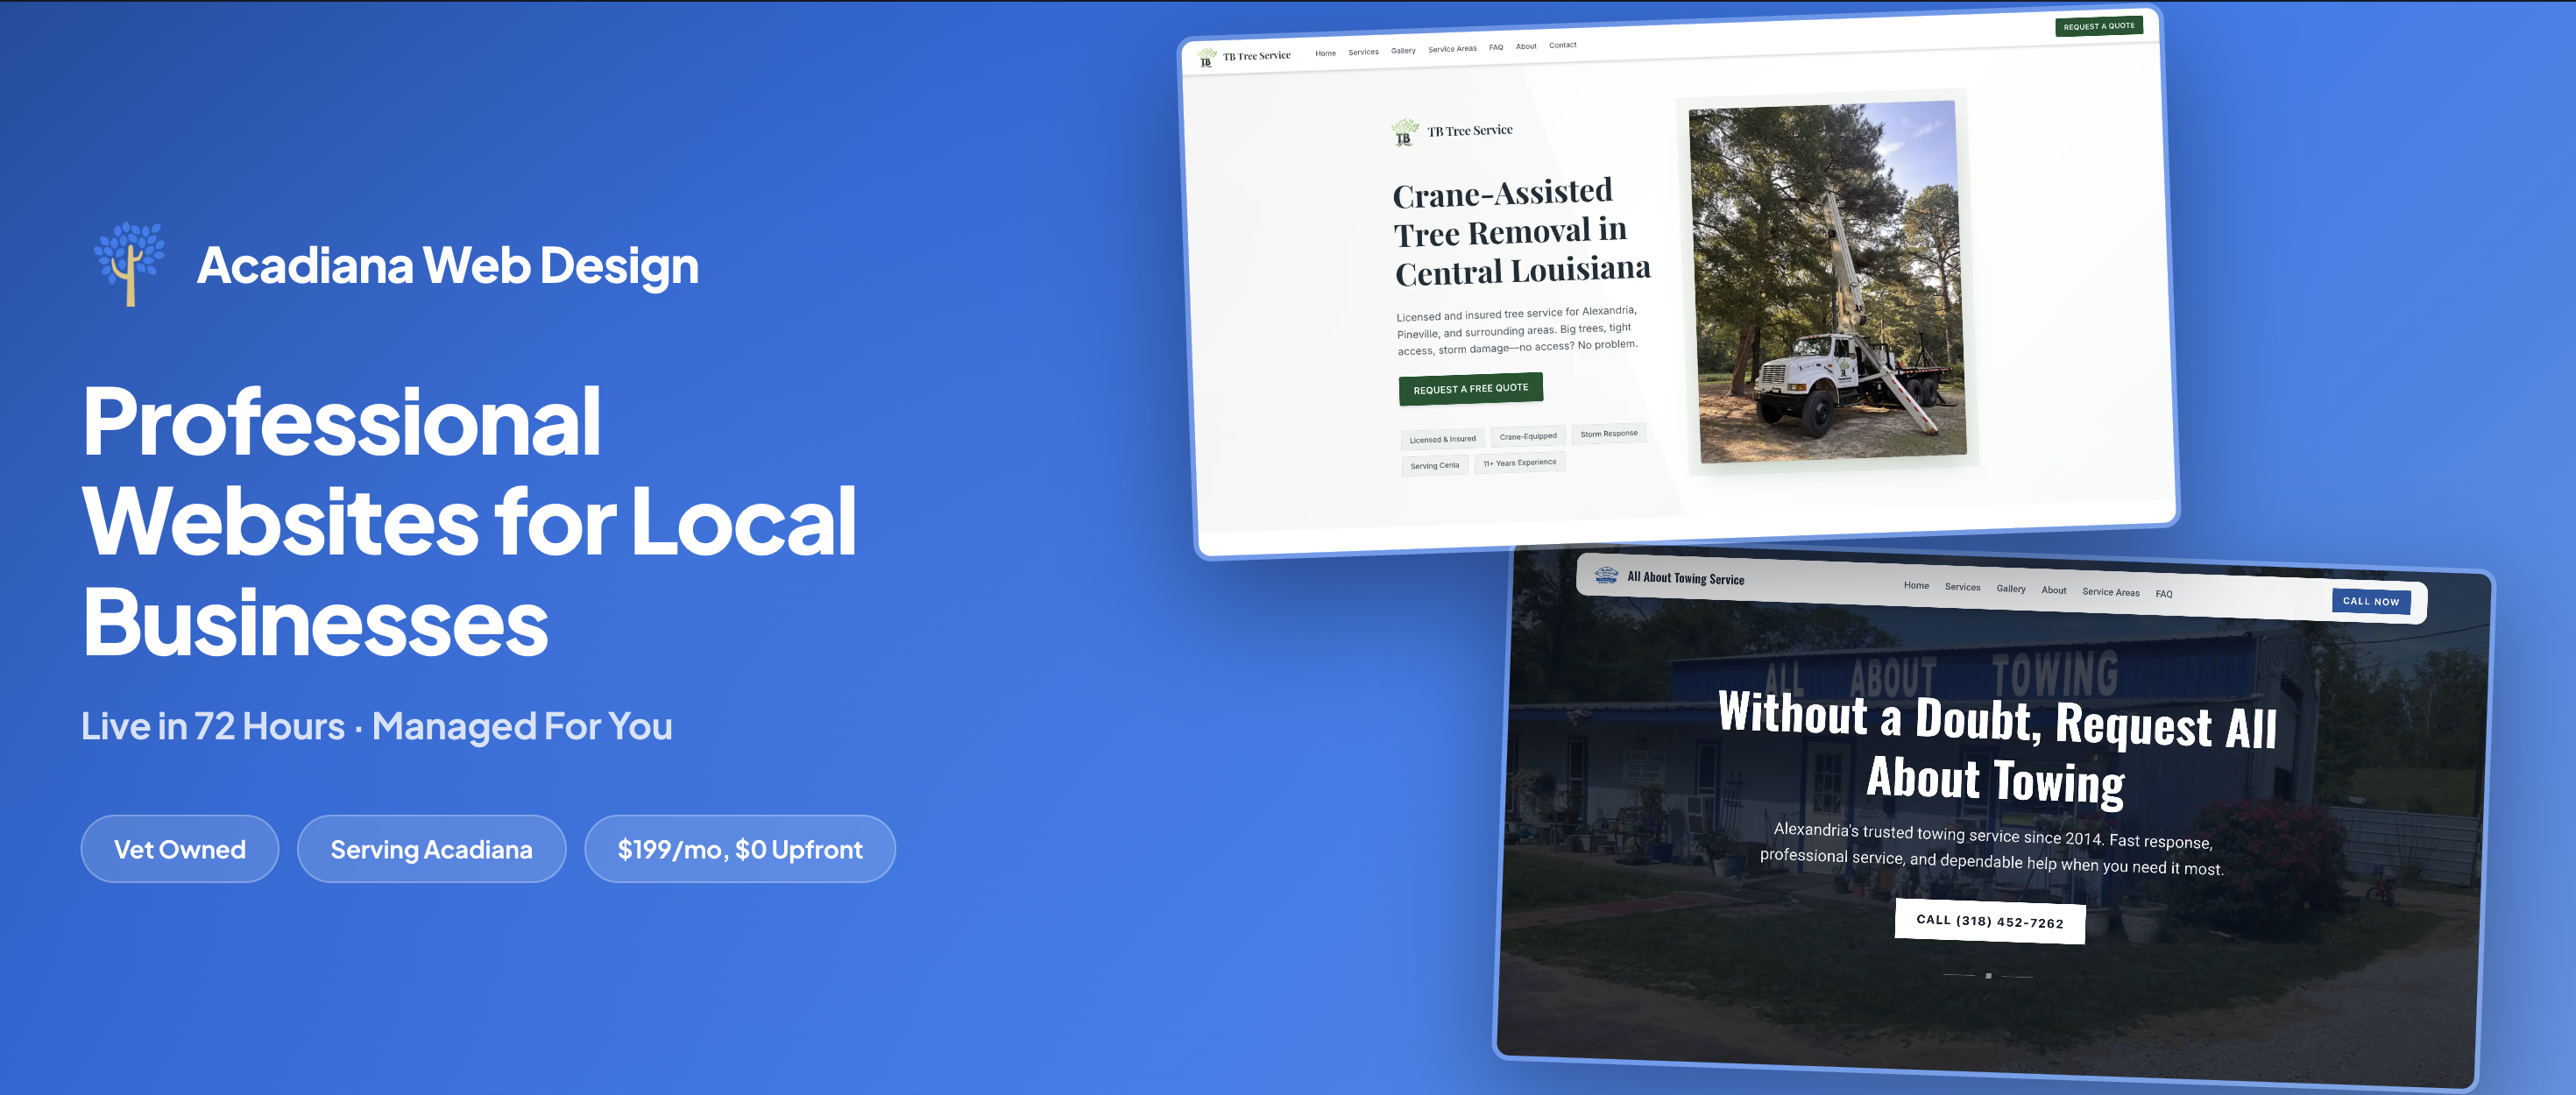
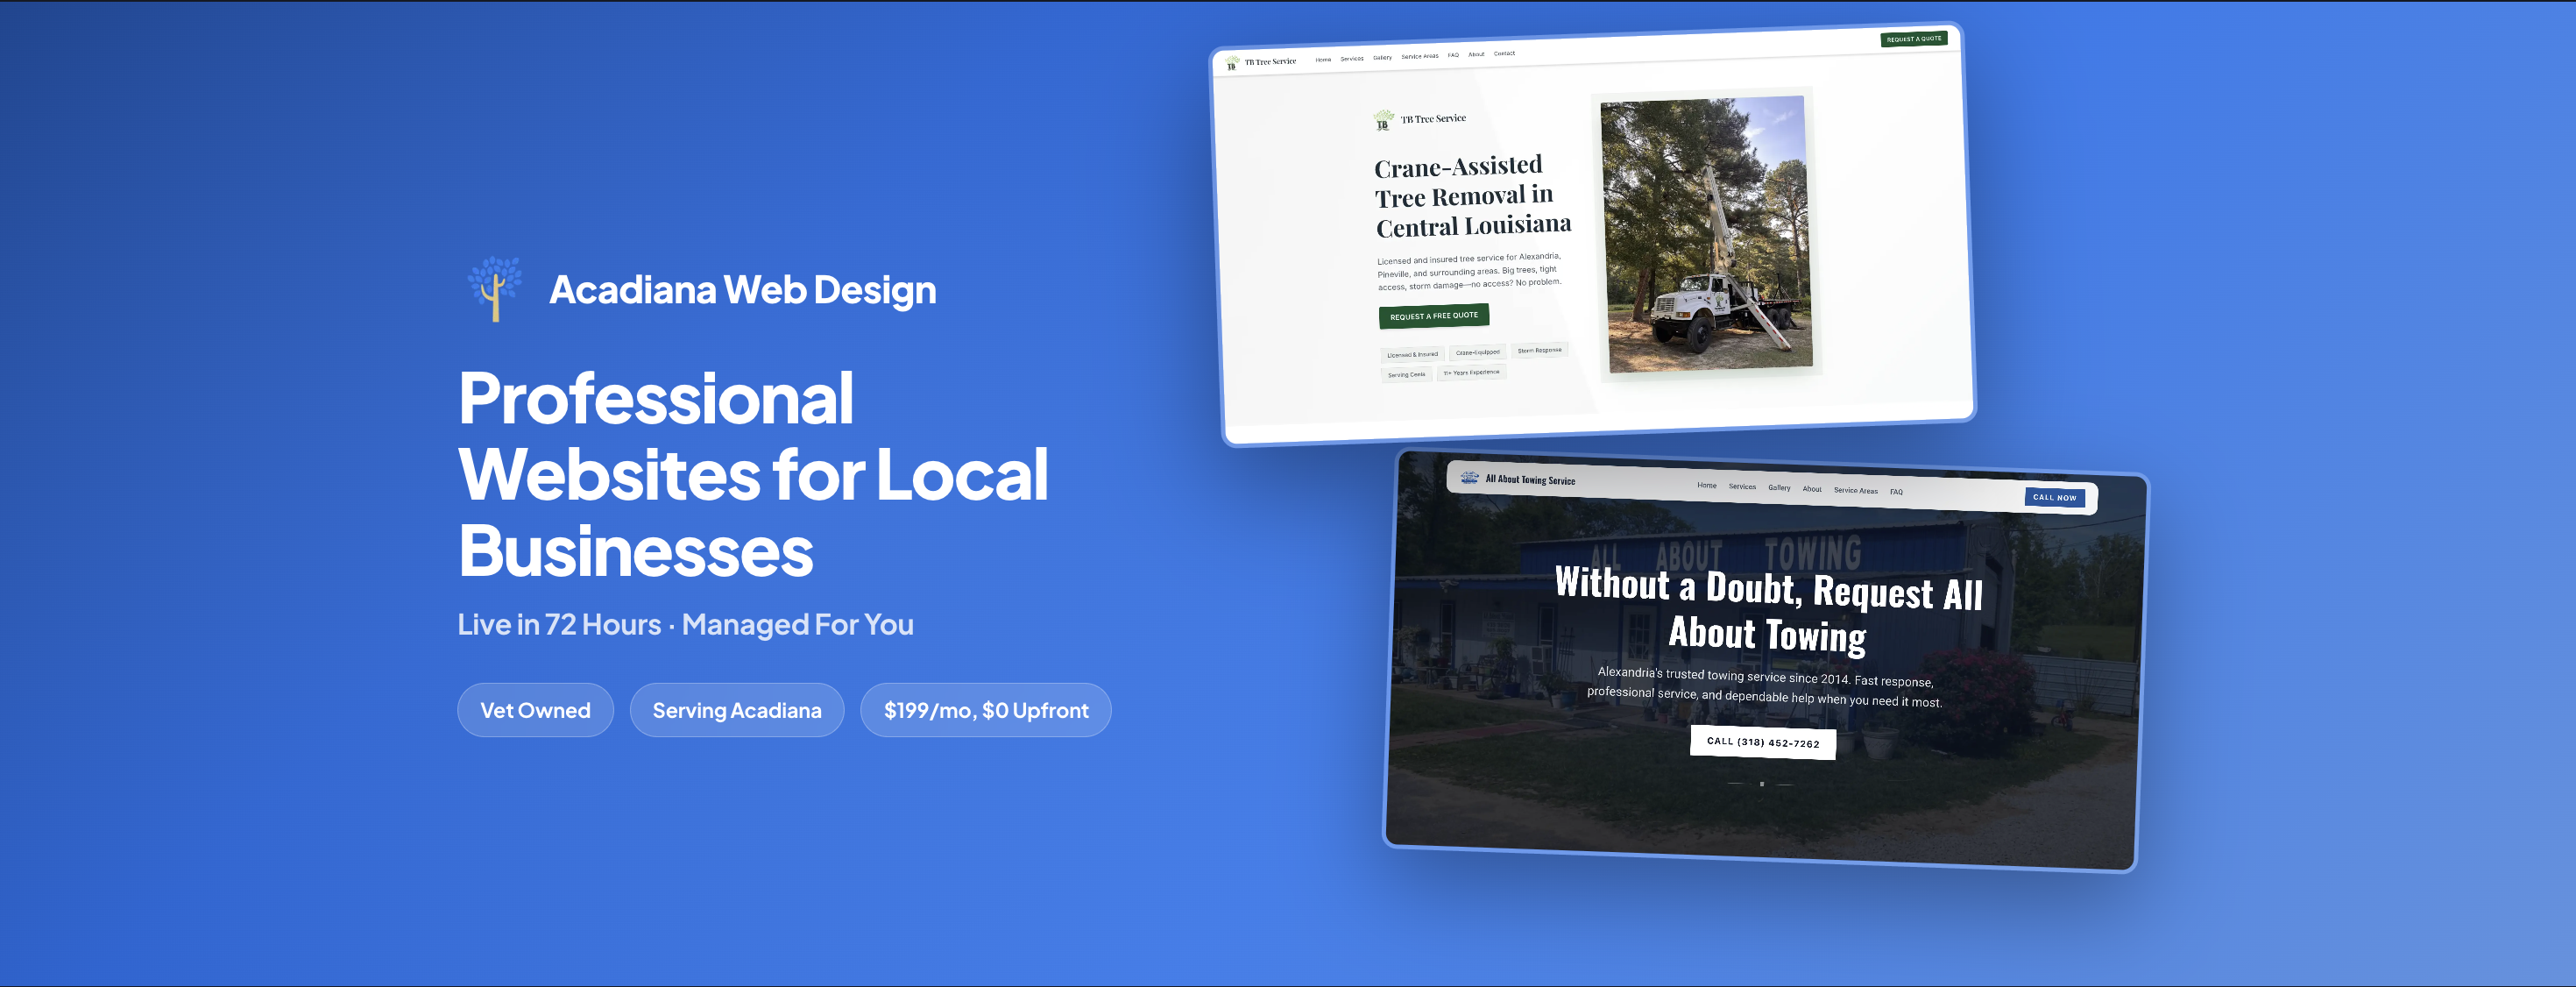
updated opengraph

diff --git a/app/fb-cover/page.tsx b/app/fb-cover/page.tsx
@@ -31,13 +31,13 @@ export default function FBCoverPage() {
           position: "absolute",
           top: 0,
           left: 0,
-          width: "55%",
+          width: "50%",
           height: "100%",
           display: "flex",
           flexDirection: "column",
           justifyContent: "center",
-          paddingLeft: 150,
-          paddingRight: 40,
+          paddingLeft: 290,
+          paddingRight: 20,
           paddingTop: 48,
           paddingBottom: 48,
           zIndex: 2,
@@ -49,20 +49,20 @@ export default function FBCoverPage() {
             display: "flex",
             alignItems: "center",
             gap: 10,
-            marginBottom: 32,
+            marginBottom: 20,
           }}
         >
           <Image
             src="/logo.png"
             alt="Acadiana Web Design"
-            width={56}
-            height={56}
+            width={48}
+            height={48}
             style={{ borderRadius: 8 }}
           />
           <span
             style={{
               color: "white",
-              fontSize: 28,
+              fontSize: 24,
               fontWeight: 800,
               letterSpacing: "-0.02em",
               lineHeight: 1,
@@ -76,13 +76,13 @@ export default function FBCoverPage() {
         <h1
           style={{
             color: "white",
-            fontSize: 52,
+            fontSize: 44,
             fontWeight: 800,
             lineHeight: 1.1,
             letterSpacing: "-0.03em",
             margin: 0,
-            marginBottom: 16,
-            maxWidth: 520,
+            marginBottom: 10,
+            maxWidth: 440,
           }}
         >
           Professional Websites for Local Businesses
@@ -92,10 +92,10 @@ export default function FBCoverPage() {
         <p
           style={{
             color: "rgba(255,255,255,0.8)",
-            fontSize: 21,
+            fontSize: 18,
             fontWeight: 500,
             margin: 0,
-            marginBottom: 36,
+            marginBottom: 24,
             letterSpacing: "-0.01em",
           }}
         >
@@ -111,12 +111,12 @@ export default function FBCoverPage() {
                 style={{
                   display: "inline-flex",
                   alignItems: "center",
-                  padding: "8px 18px",
+                  padding: "7px 14px",
                   borderRadius: 999,
                   background: "rgba(255,255,255,0.15)",
                   border: "1px solid rgba(255,255,255,0.25)",
                   color: "white",
-                  fontSize: 14,
+                  fontSize: 13,
                   fontWeight: 600,
                   letterSpacing: "-0.01em",
                   backdropFilter: "blur(8px)",
@@ -144,10 +144,10 @@ export default function FBCoverPage() {
         <div
           style={{
             position: "absolute",
-            top: 10,
-            left: -40,
-            width: 564,
-            height: 300,
+            top: 20,
+            left: -50,
+            width: 480,
+            height: 255,
             transform: "rotate(-2deg)",
             borderRadius: 10,
             overflow: "hidden",
@@ -168,10 +168,10 @@ export default function FBCoverPage() {
         <div
           style={{
             position: "absolute",
-            top: 314,
-            left: 140,
-            width: 564,
-            height: 300,
+            top: 290,
+            left: 60,
+            width: 480,
+            height: 255,
             transform: "rotate(2deg)",
             borderRadius: 10,
             overflow: "hidden",